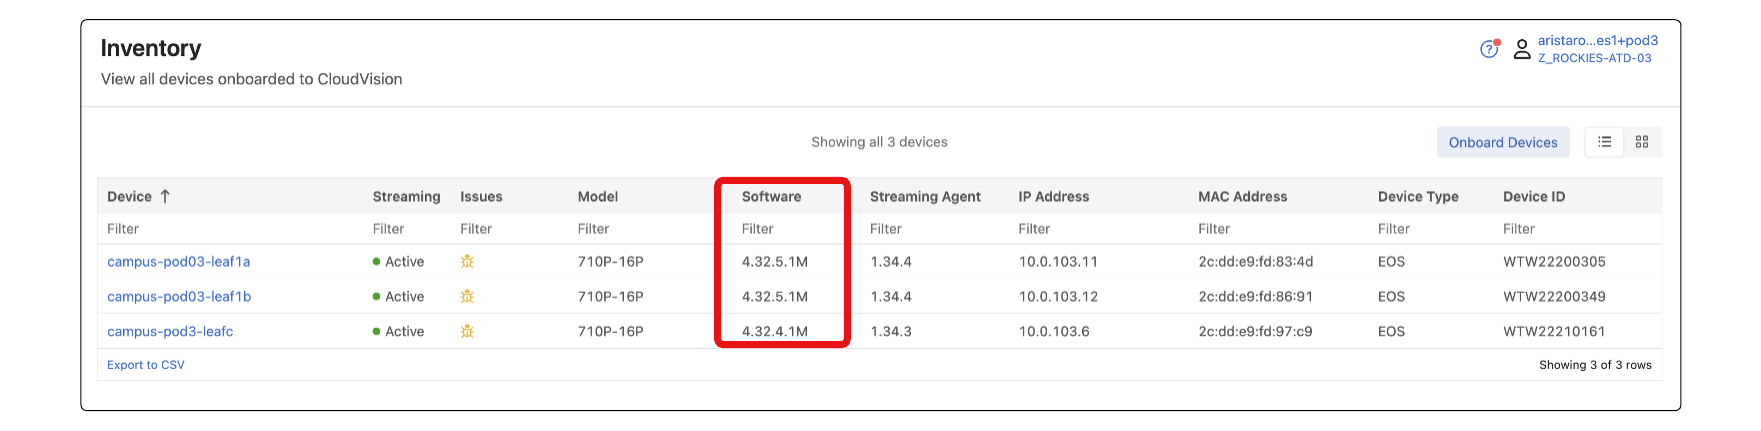
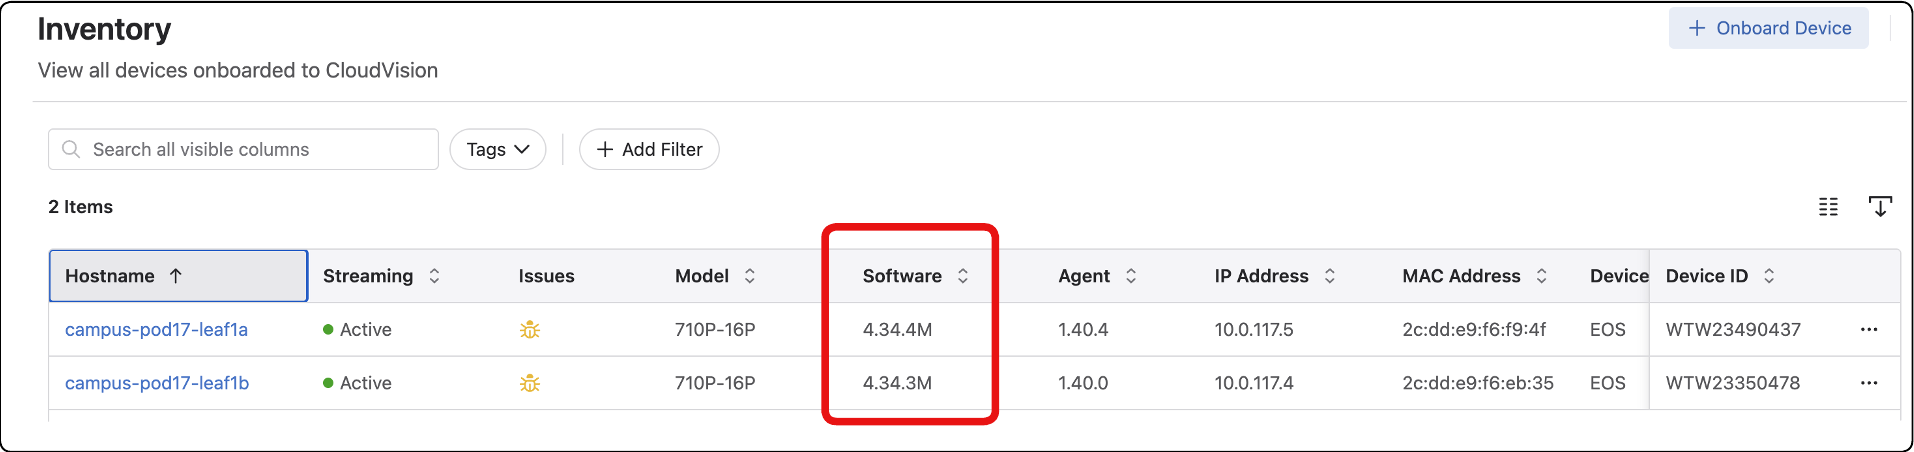
2026 B1 through 3 Updates

diff --git a/Campus/2026_Campus_Workshop/B-03/2026 Campus B-03 Wireless Lab Guide - Switch SSU Firmware Upgrade.md b/Campus/2026_Campus_Workshop/B-03/2026 Campus B-03 Wireless Lab Guide - Switch SSU Firmware Upgrade.md
@@ -19,8 +19,11 @@
 
 
 
-## Lab Topology
-![](images/full-lab-topology.png)
+## Full Lab Topology
+![Full Lab Topology](images/full-lab-topology.png)
+
+## Pod Topology
+![Pod Lab Topology](images/pod-lab-topology.png)
 
 ## 2.Intro to Arista Smart System Upgrade (SSU) 
 
@@ -29,7 +32,7 @@ SSU, or Smart System Upgrade, is a feature to minimize traffic loss when upgradi
 Additional information about this feature can be found here  
 [https://www.arista.com/en/support/toi/eos-4-15-2f/13710-hitless-ssu](https://www.arista.com/en/support/toi/eos-4-15-2f/13710-hitless-ssu)
 
-In our workshop lab topology, pictured on the previous page, you will see that leaf1c in each pod is directly connected to the pod access point and RaspberryPi client.  Traditionally, a firmware upgrade on leaf1c in the pod would cause the access point, wireless clients connected to the access point, and the raspberry pi client to lose network connectivity.  In this lab, we will use Arista SSU on the leaf1c switch in your pod to perform a firmware upgrade without causing network connectivity loss on wireless clients connected to the pod access point or loss on any wired client connected to the switch.
+In our workshop lab topology, pictured on the previous page, you will see that leaf1b in each pod is directly connected to the RaspberryPi client.  Traditionally, a firmware upgrade on leaf1b in the pod would cause the raspberry pi client to lose network connectivity.  In this lab, we will use Arista SSU on the leaf1b switch in your pod to perform a firmware upgrade without causing network connectivity loss on any wired client connected to the switch.  Additionally, we will simulate a failure on leaf1a so that the AP will only have an active connection to leaf1b at the time of the upgrade.  We will demonstrate the AP and wireless clients will not see any loss of network connectivity.
 
 ## Prerequisites
 
@@ -47,7 +50,7 @@ In our workshop lab topology, pictured on the previous page, you will see that l
 * Some switch features, when in use, will prevent SSU from starting.  See this link for more details  
   [https://www.arista.com/en/support/toi/eos-4-15-2f/13710-hitless-ssu\#limitations](https://www.arista.com/en/support/toi/eos-4-15-2f/13710-hitless-ssu#limitations)
 
-## 3. Lab Start: Perform the Arista SSU on the leaf1c switch 
+## 3. Lab Start: Perform the Arista SSU on the leaf1b switch 
 
 Let's begin the hands-on portion of this lab.  SSU can be triggered on the command line, or through CloudVision.  For this lab, we will be triggering an SSU upgrade using CloudVision.
 
@@ -57,7 +60,7 @@ Let's begin the hands-on portion of this lab.  SSU can be triggered on the comma
    
 ![](images/image3.png)
 
-2. *Note that leaf1a and leaf1b are running a different version of code than leaf1c*. During this section of the lab, we are going to bring leaf1c up to the same software version as leaf1a/b. To apply the new version of software to leaf1c we are going to utilize the Software Management Studio. Navigate to **Provisioning \> Studios**.   
+2. *Note that leaf1a and leaf1b are running a different version of code. During this section of the lab, we are going to bring leaf1b up to the same software version as leaf1a. To apply the new version of software to leaf1b we are going to utilize the Software Management Studio. Navigate to **Provisioning \> Studios**.   
 
 ![](images/image4.png) 
      
@@ -66,65 +69,66 @@ Let's begin the hands-on portion of this lab.  SSU can be triggered on the comma
 
 ![](images/image5.png)
 
-4. Review the 2 leaves already present in the Studio. We are now going to include leaf1c to this studio. Select **Create Workspace**.  
+4. Review leaf1a already present in the Studio. We are now going to upgrade leaf1b. Select **Create Workspace**.  
 
-![](images/image6.png)
+![](images/B-3image6a.png)
           
-5. Name the Workspace **SSU Leaf1c** and select Create  
+5. Name the Workspace **SSU Leaf1b** and select Create  
 
-![](images/image7.png) 
+![](images/B-3image7a.png) 
 
 6. Select **\+ Add Device**
 
-![](images/image8.png)
+![](images/B-3image8a.png)
 
-7. Within the Software Management Studio add leaf1c.  
-   1. Under the **Devices** section add **device:campus-pod\[POD\#\]leaf1c**.   
-   2. Under the Image section select the dropdown for **EOS-4.32.5.1M.swi**. *(The streaming agent will auto-populate with TerminAttr-1.34.)*   
+7. Within the Software Management Studio select leaf1b.  
+   1. Under the **Devices** section add **device:campus-pod\[POD\#\]leaf1b**.   
+   2. Under the Image section select the dropdown for **EOS-4.34.4.1M.swi**. *(The streaming agent will auto-populate with TerminAttr-1.34.)*   
    3. Select **Review Workspace**.
 
-![](images/image9.png)
+![](images/B-3image9b.png)
 
-8. Review the pending workspace. Look at the Proposed Software and verify that 4.32.5.1M. Select **Submit Workspace**  
+8. Review the pending workspace. Look at the Proposed Software and verify that 4.34.4.1M. Select **Submit Workspace**  
 
-![](images/image10.png) 
+![](images/B-3image10a.png) 
      
 9. Now that you have submitted that workspace, we have added the proposed software image for Leaf1c to the designed configuration. No changes have been made to any device up until this point. Through the change control process we will upgrade the switch to the new version. Select **View Change Control**  
 
 ![](images/image11.png)  
 
-10. We are not going to set the change control to upgrade the image using the SSU process.   
-    1. Select **leaf1c** under Change Control Stages.   
+10. We are now going to set the change control to upgrade the image using the SSU process.   
+    1. Select **leaf1b** under Change Control Stages.   
     2. **Select Arguments.**
 
-![](images/image12.png)
+![](images/B-3image12a.png)
 
 11. Under Arguments populate the following information  
-    1. DeviceID \- **campus-pod\[POD\#\]-leaf1c**  
+    1. DeviceID \- **campus-pod\[POD\#\]-leaf1b**  
     2. ReloadMode \- from the dropdown select **SSU Only**.   
     3. Source \- **Designed Image**
 
-![](images/image13.png)
+![](images/B-3image13a.png)
 
    
 
 12. Before we apply the new firmware, let's start a ping test which will run during the switch upgrade process.  We will see that the ping traffic will continue to flow through the switch even while its software is being upgraded.  
     1. First, please make sure that your laptop is connected to the wireless network called “**ATD-\#\#\-PSK”.** Use the PSK you configured in the previous lab to associate with this wireless network.  
-    2. Second, open a command prompt (or a terminal window if using a macbook), and issue the command “**ping \-t 10.0.1\#\#.1**” (or the command ‘ping 10.0.1\#\#.1 if using macbook).  Please replace **\#\#** with your pod number.  Now leave this window open for the following steps.  We will see ping packets being sent and received every second.  You are now pinging the gateway IP address for your pod from your wireless device connected to your pods access point.  The ping traffic must traverse the leaf1c switch to reach the gateway.  We should be able to observe how traffic is affected while leaf1c is upgrading during SSU.
+    2. Second, we remove the AP connection to leaf1a to assure we are relying on the switch leaf1b.  Please remove the cable between the AP and laef1a.
+    2. Third, open a command prompt (or a terminal window if using a macbook), and issue the command “**ping \-t 10.0.1\#\#.1**” (or the command ‘ping 10.0.1\#\#.1 if using macbook).  Please replace **\#\#** with your pod number.  Now leave this window open for the following steps.  We will see ping packets being sent and received every second.  You are now pinging the gateway IP address for your pod from your wireless device connected to your pods access point.  The ping traffic must traverse the leaf1c switch to reach the gateway.  We should be able to observe how traffic is affected while leaf1c is upgrading during SSU.
 
 13. Return to CloudVision. Select **Review and Approve** 
 
-![](images/image14.png) 
+![](images/B-3image14a.png) 
 
 14. Select **Approve and Execute** 
 
-![](images/image15.png) 
+![](images/B-3image15a.png) 
 
 15. The device is now going to upgrade the image. This can take a few minutes. While the change control is running.  
     1. Select the **Logs** to see details of the change as they’re happening.  
     2. Return to your terminal that is running a continuous ping
 
-![](images/image16.png)
+![](images/B-3image16a.png)
 
 16. As our final step, take another look at the terminal window that was running the consistent pings.  You should see pings continue to flow without issue during the upgrade.  Only towards the end of the process you may see 1 or 2 pings lost as the ASIC reconnects to the updated management plane.
 
@@ -169,3 +173,6 @@ We just observed how Arista SSU allows network connected devices to continue to 
 LAB GUIDE COMPLETE
 
 
+
+
+[def]: full-lab-topology.png

diff --git a/Campus/2026_Campus_Workshop/B-01/2026 Campus B-01 Wireless Lab Guide - WiFi setup.md b/Campus/2026_Campus_Workshop/B-01/2026 Campus B-01 Wireless Lab Guide - WiFi setup.md
@@ -42,17 +42,18 @@ For more information on the TCP/UDP ports and protocols involved for management 
 
 ## 2. CloudVision Cognitive Unified Edge CV-CUE Access 
 
-Go to the Arista CloudVision CUE portal via: [https://launchpad.wifi.arista.com/](https://launchpad.wifi.arista.com/)
+Go to the Arista CloudVision CUE portal via: [https://ignition.campus-atd.net/](https://ignition.campus-atd.net/)
 
-User Login is: *\[Provided by event staff\]*  
-User Passwords are: *\[Provided by event staff\]*
+* Enter the 6 digit Access Code found on the Pod Handout Worksheet  
+* Click ![](images/ignition_submit.png) 
 
-![](images/image3.png) 
-Click **Sign In**
+![](images/Ignition1.png)  
 
-### Launchpad 
+Click the CV-CUE and AGNI Launchpad tile
+![](images/Ignition_launchpad.png)  
 
-Launchpad is the portal to access your Arista cloud services including **WiFi Management** (CV-CUE) and **AGNI** (Network Access Control). When you open the launcher, you are presented with management applications on the Dashboard menu and access controls with the Admin menu.
+## Launchpad 
+* Launchpad is the portal to access your Arista cloud services including **WiFi Management** (CV-CUE) and **AGNI** (Network Access Control). When you open the launcher, you are presented with management applications on the Dashboard menu and access controls with the Admin menu.
 
 ![](images/image4.png)
 

diff --git a/Campus/2026_Campus_Workshop/B-02/2026 Campus B-02 Wireless Guide - WIPS.md b/Campus/2026_Campus_Workshop/B-02/2026 Campus B-02 Wireless Guide - WIPS.md
@@ -19,20 +19,25 @@
 
 ## Arista WiFi Solution Diagram  
 
-![](images/image2.png)
+![](images/wirelesstopology.png)
 
 
 
 ## 1. Log in to CV-CUE CloudVision Cognitive Unified Edge 
 
-Go to the Arista GUI via: [https://launchpad.wifi.arista.com/](https://launchpad.wifi.arista.com/)
+Go to the Arista Ignition GUI via: [https://ignition.campus-atd.net/](https://ignition.campus-atd.net/)
 
-User Login is: *\[Provided by event staff\]*  
-User Passwords are: *\[Provided by event staff\]*  
-![](images/image3.png)
+* Enter the 6 digit Access Code found on the Pod Handout Worksheet
+  
+* Click  ![](images/image4a.png)
 
-Click **Sign In**
+![](images/Ignition1.png)
 
+Click the **CV-CUE and AGNI Lauchpad** tile
+
+![](images/Ignition_launchpad.png)
+
+## Launchpad
 
 Within the Launchpad Dashboard tab:
 
@@ -59,7 +64,7 @@ Wi-Fi threats include an ever changing landscape of vulnerabilities, such as:
 * DoS attack  
 * Bridging client
 
-![](images/image20.png)
+![](images/ARP-Request.png)
 
 In the menu on the left hand side of the screen, hover your cursor over “**Monitor”** and then click **“WIPS”**.  Now click on **“Access Points”** and “**Clients**” in the menu at the top of the screen and explore if any Rogue APs or Clients are connected to other APs in the area.
 
